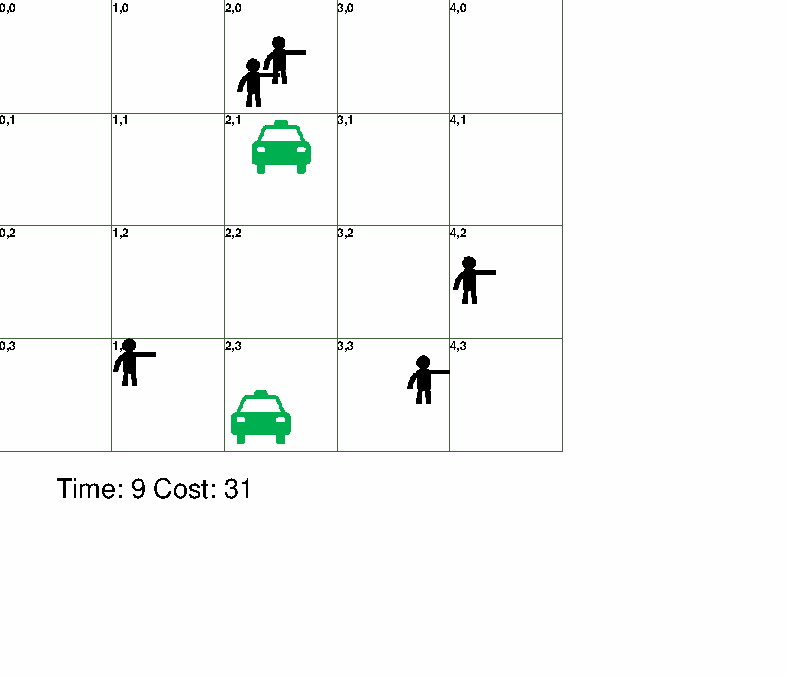
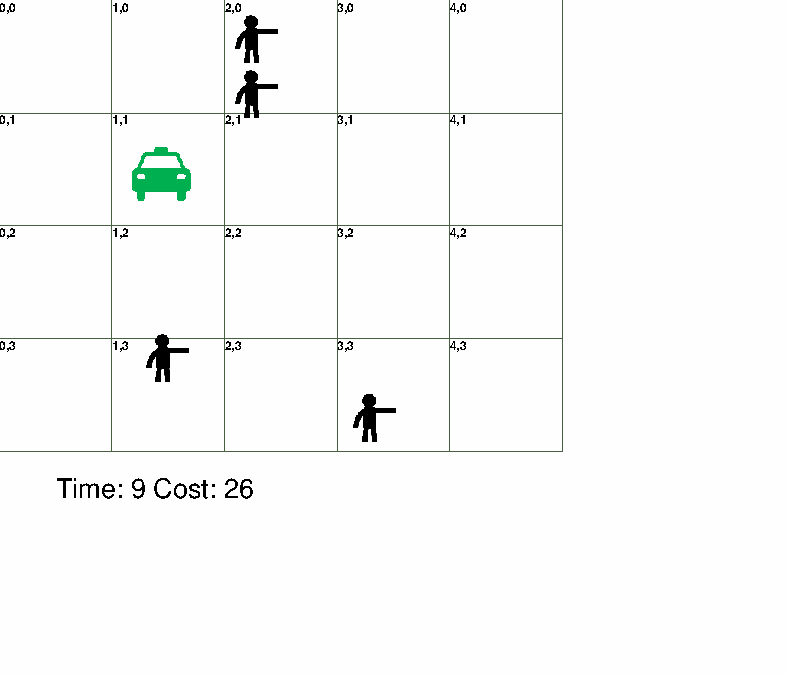
question 4

diff --git a/PSET4/hw4_skeleton/src/base_policy.py b/PSET4/hw4_skeleton/src/base_policy.py
@@ -40,8 +40,7 @@ class base_policy:
         # ell is the index of the agent to be used in the list: agent_locations
         ell_location = taxi_state_object.agent_locations[ell]
 
-        manhattan_distance_lst = np.array([])
-
+        manhattan_distance_lst = []
         for count, req in enumerate(taxi_state_object.outstanding_requests):
             pickup_location = [req[0], req[1]]
             if ell_location == pickup_location: 
@@ -49,14 +48,13 @@ class base_policy:
                 return control_component
             else:
                 dist = taxi_state_object.g.manhattan_distance(ell_location, pickup_location)
-                np.append(manhattan_distance_lst, dist)
+                manhattan_distance_lst.append(dist)
 
-        if np.any(manhattan_distance_lst):
-            min = np.argmin(manhattan_distance_lst)
-            nearest_req = taxi_state_object.outstanding_requests[min]
+        if manhattan_distance_lst:
+            m = manhattan_distance_lst.index(min(manhattan_distance_lst))
+            nearest_req = taxi_state_object.outstanding_requests[m]
 
             control_component = self.next_direction(ell_location, [nearest_req[0], nearest_req[1]])
-
         ################################# End your code ###############################
         if control_component is None:
             return 0
